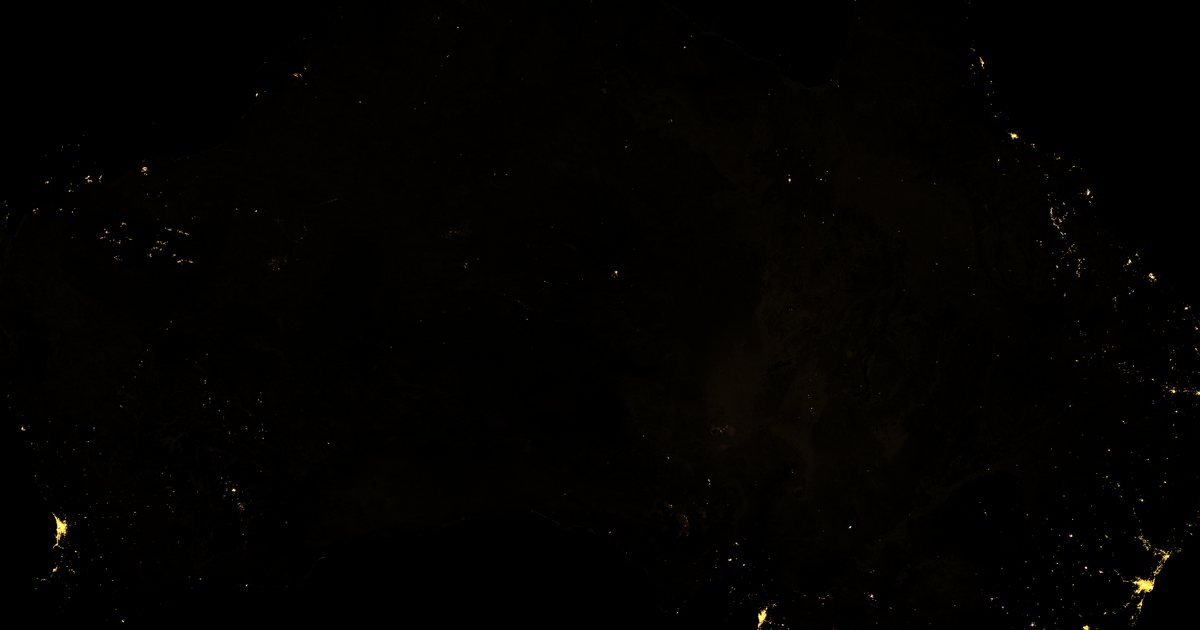
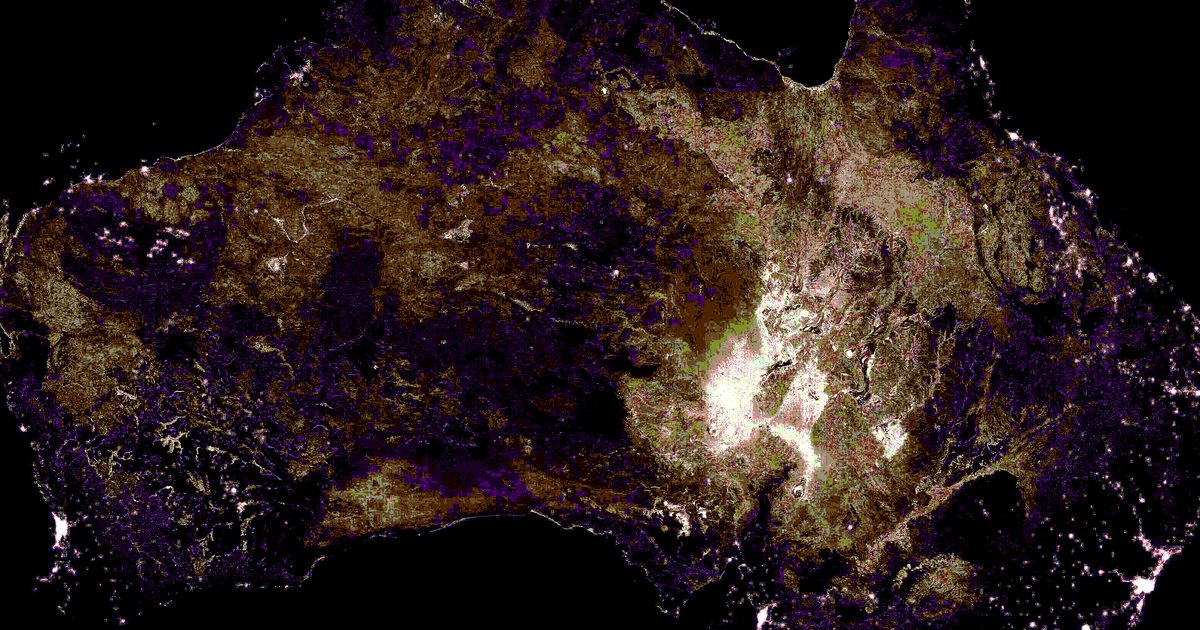
Try a Macy Gray grade: smoke, tobacco, silver grain.
NASA Black Marble stays the map. Presentation only — no cities added, no celebrity likeness. Soul wash over the survey.

diff --git a/styles.css b/styles.css
@@ -1,19 +1,19 @@
 @import url("https://fonts.googleapis.com/css2?family=Instrument+Serif:ital@0;1&family=Syne:wght@500;600;700;800&display=swap");
 
 :root {
-  --bg: #07040a;
-  --bg-alt: #10080c;
-  --panel: rgba(16, 9, 12, 0.78);
-  --border: rgba(212, 160, 84, 0.22);
-  --hematite: #c45c2a;
-  --dust: #d4a054;
-  --ember: #f3e6d0;
-  --red-dust: #c45c2a;
-  --red-dust-bright: #e8c48a;
-  --star: #f6efe4;
-  --star-dim: #cbbba4;
-  --star-faint: #8a7a68;
-  --void: #07040a;
+  --bg: #0b0908;
+  --bg-alt: #14110e;
+  --panel: rgba(22, 18, 16, 0.82);
+  --border: rgba(196, 176, 138, 0.22);
+  --hematite: #a85a38;
+  --dust: #c4b08a;
+  --ember: #e6e0d6;
+  --red-dust: #a85a38;
+  --red-dust-bright: #d4c4a8;
+  --star: #e8e4dc;
+  --star-dim: #b8b0a4;
+  --star-faint: #7a7368;
+  --void: #0b0908;
   --max-w: 920px;
   --font-serif: "Instrument Serif", "Iowan Old Style", Georgia, serif;
   --font-ui: "Syne", "Futura", system-ui, sans-serif;
@@ -688,7 +688,7 @@ body.home nav .links a:hover { color: var(--dust); }
   inset: 0;
   z-index: 0;
   overflow: hidden;
-  background: #07040a;
+  background: #0b0908;
 }
 .hero-media img {
   width: 100%;
@@ -697,18 +697,29 @@ body.home nav .links a:hover { color: var(--dust); }
   object-position: 52% 42%;
   transform: scale(1.08);
   animation: orbit-drift 42s ease-in-out infinite alternate;
+  filter: contrast(1.08) saturate(0.72);
 }
 .hero-veil {
   position: absolute;
   inset: 0;
   z-index: 1;
   background:
-    linear-gradient(180deg, rgba(7,4,10,0.08) 0%, rgba(7,4,10,0.04) 42%, rgba(7,4,10,0.55) 78%, #07040a 100%);
+    linear-gradient(180deg, rgba(11,9,8,0.22) 0%, rgba(11,9,8,0.06) 40%, rgba(11,9,8,0.62) 76%, #0b0908 100%);
   pointer-events: none;
+}
+.hero-grain {
+  position: absolute;
+  inset: 0;
+  z-index: 2;
+  pointer-events: none;
+  opacity: 0.2;
+  mix-blend-mode: overlay;
+  background-image: url("images/grain.png");
+  background-size: 160px 160px;
 }
 .hero-cinema .wrap {
   position: relative;
-  z-index: 2;
+  z-index: 3;
   padding-bottom: 8px;
 }
 .hero-cinema .eyebrow {
@@ -755,7 +766,7 @@ body.home nav .links a:hover { color: var(--dust); }
 }
 .scroll-cue {
   position: absolute;
-  z-index: 2;
+  z-index: 3;
   left: 50%;
   bottom: 22px;
   transform: translateX(-50%);

diff --git a/index.html b/index.html
@@ -39,6 +39,7 @@
     <img src="images/hero-black-marble.jpg" alt="">
   </div>
   <div class="hero-veil"></div>
+  <div class="hero-grain" aria-hidden="true"></div>
   <div class="wrap">
     <div class="eyebrow">Formal proposal & vision</div>
     <h1>The Unknown Southern Land,<br><em>awakened for a multiplanetary age.</em></h1>
@@ -62,7 +63,7 @@
       <img src="images/map-australia-night.jpg" alt="Australia at night — city lights on a dark continent. NASA Black Marble, Suomi NPP VIIRS, 2016 composite.">
       <figcaption>The map. NASA Black Marble 2016 — Suomi NPP VIIRS. Public domain. Belt: science. Not a TerAustralis facility.</figcaption>
     </figure>
-    <p class="source-link">Opening night: NASA Black Marble 2016 (Suomi NPP VIIRS). Presentation grade — blacks crushed, lights warmed. No cities added. Credit: NASA Earth Observatory / Joshua Stevens, VIIRS data Miguel Román, NASA GSFC.</p>
+    <p class="source-link">Opening night: NASA Black Marble 2016 (Suomi NPP VIIRS). Presentation grade — smoke, tobacco, grain. No cities added. Credit: NASA Earth Observatory / Joshua Stevens, VIIRS data Miguel Román, NASA GSFC.</p>
   </div>
 </section>
 
